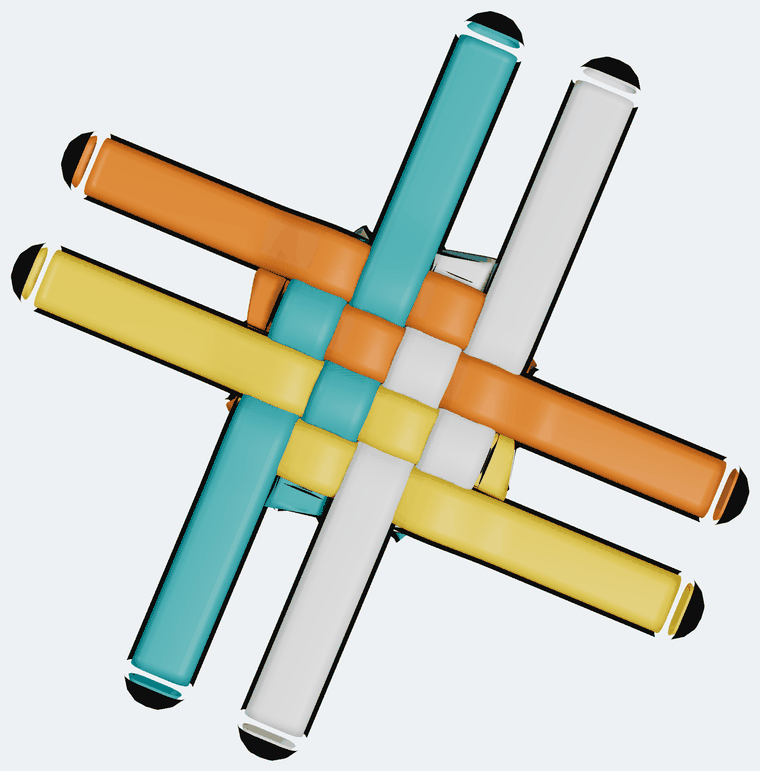
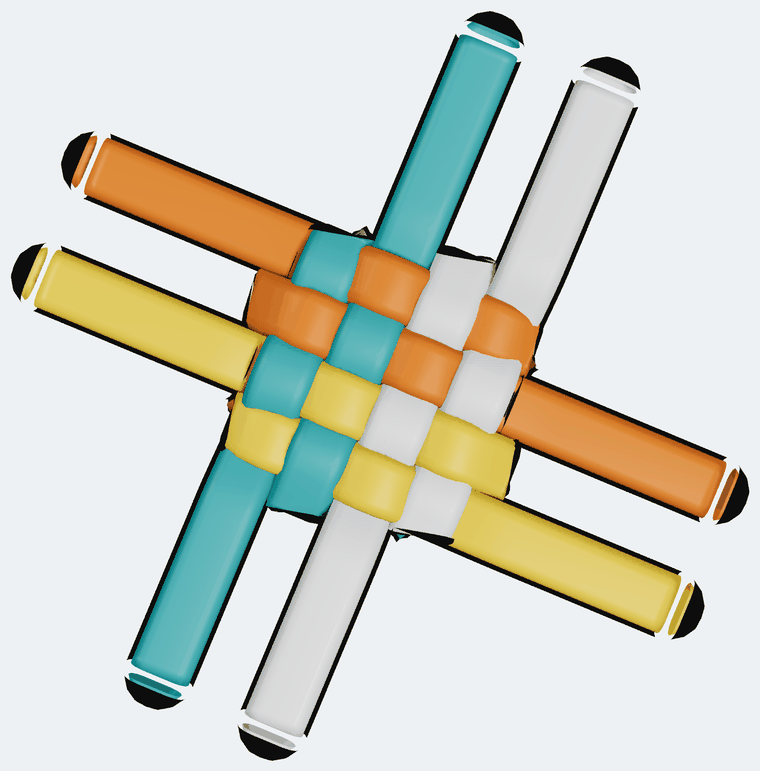
Fix the weave phase of the derived stitches against the hand-built one
The law fixes every reach and every travel direction, but it does not fix the
weave: a face is a grid, so over-under-over-under can start either way, and the
complement of a plain weave alternates just as correctly along every row and
every column. The construction was picking one arbitrarily by slot-index parity,
and it picked the wrong one — for every shape, not only for the wide ones.

Reading both by POSITION rather than by name, with weft and warp lines each
ordered by offset across the face, settles it. The hand-built sample reads
uOuO / OuOu and the derived 2x1 read OuOu / uOuO: exact complements. So a weft
line rides over the warp lines of OPPOSITE parity counting from the outside in,
not matching parity, and the sample was the only thing that could tell.

The 2x1 sample is untouched — it was right all along, and it is what pinned the
phase. The derived 3x1, 2x2 and 3x2 are rebuilt and their figures redrawn. All
seven shapes still check out: counts, exactly 4mn crossings a level, plain weave
on every arm on every level, parallelism to 0.0000 degrees, every parent anchor
exact, and the derived 2x1 now matching the sample crossing for crossing.

Claude-Session: https://claude.ai/code/session_01UR91QAciFS7qXKoLNTeV4t

Changed region(s): [[0.2724, 0.2802, 0.7263, 0.7471], [0.7263, 0.3735, 0.7566, 0.4047]]

diff --git a/docs/twist-stitch/deriving-the-turn.md b/docs/twist-stitch/deriving-the-turn.md
@@ -127,6 +127,27 @@ So the ideal stitch is *uniform*. Which is
 [the cylinder we started from](README.md#8-why-it-is-grown-and-not-derived) — see
 [§6](#6-slack-is-what-makes-a-stitch-look-handmade).
 
+### The one thing the geometry does *not* fix
+
+The weave has two phases. A face is a grid, so "over, under, over, under" can
+start either way — and the complement of a plain weave is another plain weave,
+alternating just as correctly along every row and every column. Nothing in the
+reach algebra prefers one.
+
+The **hand-built 2×1 pins it**, and pins it for every shape. Read by *position* —
+weft and warp lines each ordered by their offset across the face — its outermost
+weft line goes **under** the outermost warp line:
+
+```
+   sample, level 4, by position:      uOuO
+                                      OuOu
+```
+
+So the rule is: a weft line rides **over** the warp lines of *opposite* parity,
+counting both from the outside in. The first version of this note had it the
+other way round for every shape, which is a valid weave and the wrong one; the
+sample was the only thing that could tell, and it does.
+
 ---
 
 ## 4. The snug limit
@@ -198,12 +219,13 @@ Building an m×n from the formulas above and nothing else, then measuring it:
 | junctions | 66 | 66 |
 | warp parallel to | 0.0000° | 2.52° |
 | weft parallel to | 0.0000° | 2.10° |
-| weave | O,u,O,u on both weft arms, every level | same |
+| weave, by position | `uOuO / OuOu` | `uOuO / OuOu` |
 | θ | 28.07° snug | 26.0° fitted |
 
-Every count matches, and the generated stitch is *more* regular than the
-hand-built one — the expected direction. The angle is close but not equal: 28.07°
-snug against 26.0° measured.
+Every count matches, the weave matches crossing for crossing once both are read
+by position, and the generated stitch is *more* regular than the hand-built one —
+the expected direction. The angle is close but not equal: 28.07° snug against
+26.0° measured.
 
 That gap is what ρ is for. Writing `s = ρ / ρ_min` for how much further than snug
 the folds are pulled, `s = cot(13°)/4 = 1.083`: the hand-built stitch is **8%
@@ -250,7 +272,8 @@ Machine-checked on every build, for 1×1, 2×1, 3×1, 4×1, 2×2, 3×2 and 3×3:
 mask and junction counts as predicted; every parent anchor exact; **exactly 4mn
 crossings per level and not one more** (no warp crossing warp, no weft crossing
 weft); every weft arm reading `O,u,O,u…` across all 2m warp arms on every level;
-and warp and weft each parallel to **0.0000°**.
+and warp and weft each parallel to **0.0000°**. The 2×1's weave now matches the
+hand-built sample's, read by position — which is what fixed the phase.
 
 The 3×1's reaches, all forced, at `w = G = V = 54`:
 
